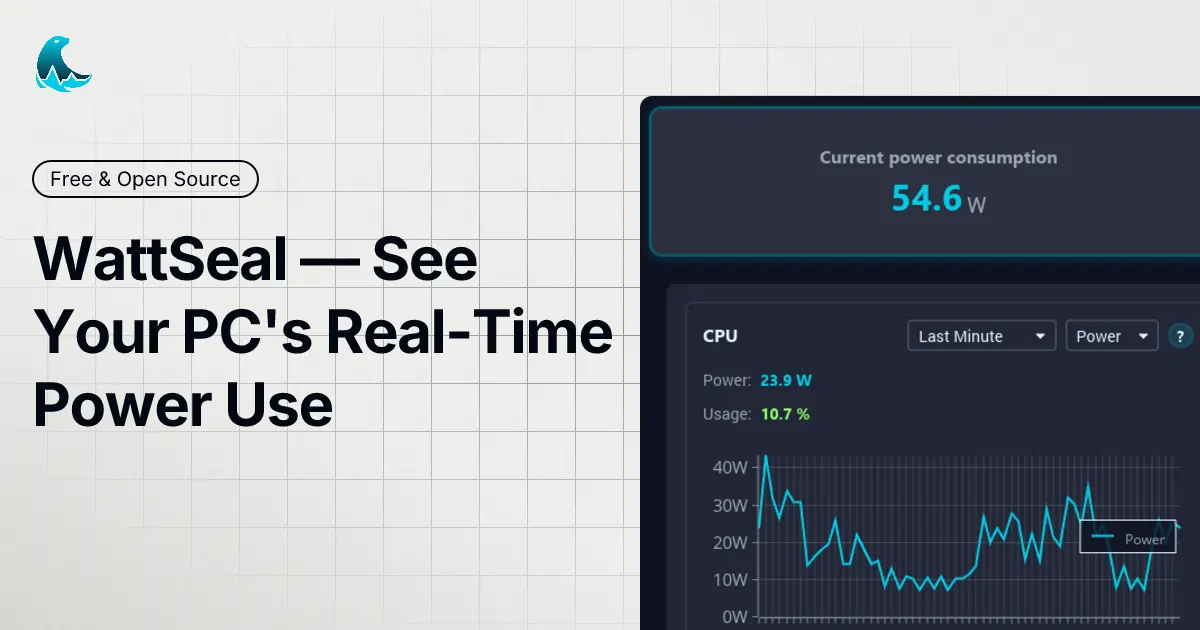
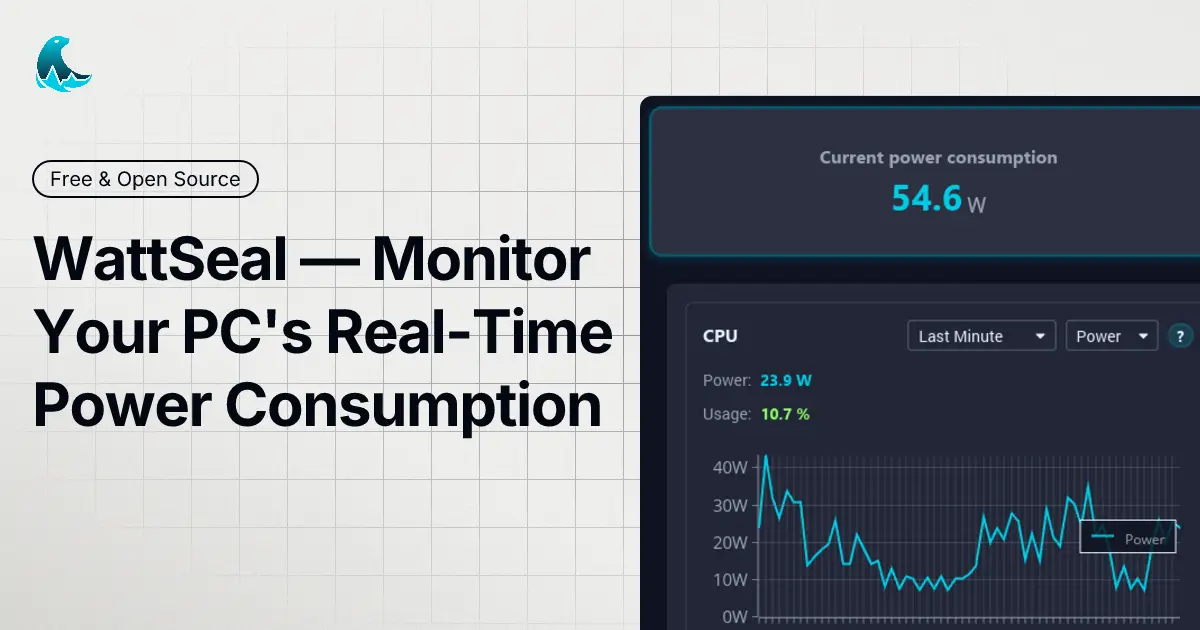
Dashboard quality and title

Changed region(s): [[0.185, 0.6032, 0.5242, 0.6937], [0.3083, 0.3619, 0.4933, 0.4524]]

diff --git a/index.html b/index.html
@@ -3,7 +3,7 @@
 <head>
     <meta charset="UTF-8">
     <meta name="viewport" content="width=device-width, initial-scale=1.0">
-    <title>WattSeal — See Your PC's Real-Time Power Use, Electricity Cost & Carbon Footprint</title>
+    <title>WattSeal — Monitor Your PC's Real-Time Power Consumption</title>
     <meta name="description" content="Find out exactly how much electricity your PC consumes — by app, by component, in real time. Track your carbon footprint, cut your energy bill. Free, open-source. AMD, Intel & NVIDIA supported.">
     <meta name="keywords" content="PC power consumption monitor, computer electricity usage tracker, PC carbon footprint software, how much electricity does my PC use, power usage per application Windows, real-time watt meter PC, reduce PC energy consumption, carbon footprint tracker, electricity cost calculator">
     <meta name="robots" content="index, follow, max-image-preview:large, max-snippet:-1, max-video-preview:-1">
@@ -14,7 +14,7 @@
     <!-- Open Graph / Facebook -->
     <meta property="og:type" content="website">
     <meta property="og:url" content="https://wattseal.com/">
-    <meta property="og:title" content="WattSeal — See Your PC's Real-Time Power Use">
+    <meta property="og:title" content="WattSeal — Monitor Your PC's Real-Time Power Consumption">
     <meta property="og:description" content="Find out exactly how much electricity your PC consumes — by app, by component, in real time. Track your carbon footprint, cut your energy bill. Free, open-source.">
     <meta property="og:image" content="https://wattseal.com/og-image.webp">
     <meta property="og:type" content="website">
@@ -25,7 +25,7 @@
     <!-- Twitter -->
     <meta property="twitter:card" content="summary_large_image">
     <meta property="twitter:url" content="https://wattseal.com/">
-    <meta property="twitter:title" content="WattSeal — See Your PC's Real-Time Power Use">
+    <meta property="twitter:title" content="WattSeal — Monitor Your PC's Real-Time Power Consumption">
     <meta property="twitter:description" content="Find out exactly how much electricity your PC consumes — by app, by component, in real time. Track your carbon footprint, cut your energy bill. Free, open-source.">
     <meta property="twitter:image" content="https://wattseal.com/og-image.webp">
 
@@ -46,9 +46,8 @@
     <noscript><link href="https://fonts.googleapis.com/css2?family=Inter:wght@400;500;600&family=Outfit:wght@400;600;700;800&display=optional" rel="stylesheet"></noscript>
 
     <!-- Preload hero image — per-breakpoint to match <picture> sources -->
-    <link rel="preload" as="image" href="dashboard-400.webp" media="(max-width: 768px)" fetchpriority="high">
-    <link rel="preload" as="image" href="dashboard-800.webp" media="(min-width: 769px) and (max-width: 1199px)" fetchpriority="high">
-    <link rel="preload" as="image" href="dashboard.png" media="(min-width: 1200px)" fetchpriority="high">
+    <link rel="preload" as="image" href="dashboard-800.webp" media="(max-width: 768px)" fetchpriority="high">
+    <link rel="preload" as="image" href="dashboard.png" media="(min-width: 769px)" fetchpriority="high">
 
     <!-- JSON-LD: SoftwareApplication -->
     <script type="application/ld+json">
@@ -397,9 +396,8 @@
 
                 <div class="hero-image-wrapper">
                     <picture>
-                        <source media="(max-width: 768px)" srcset="dashboard-400.webp" type="image/webp">
-                        <source media="(min-width: 769px) and (max-width: 1199px)" srcset="dashboard-800.webp" type="image/webp">
-                        <source media="(min-width: 1200px)" srcset="dashboard.png" type="image/png">
+                        <source media="(max-width: 768px)" srcset="dashboard-800.webp" type="image/webp">
+                        <source media="(min-width: 769px)" srcset="dashboard.png" type="image/png">
                         <img src="dashboard.png" alt="WattSeal app dashboard showing real-time power consumption breakdown by application and component" width="1200" height="750" fetchpriority="high" style="width:100%;height:auto">
                     </picture>
                 </div>
@@ -792,7 +790,7 @@
         function doShare(triggerEl) {
             var url = 'https://wattseal.com';
             if (navigator.share) {
-                navigator.share({ title: 'WattSeal', text: 'See your PC\u2019s real-time power consumption \u2014 free & open source.', url: url });
+                navigator.share({ title: 'WattSeal', text: 'Monitor your PC\u2019s real-time power consumption \u2014 free & open source.', url: url });
             } else if (navigator.clipboard) {
                 navigator.clipboard.writeText(url).then(function(){
                     var fb = document.getElementById('copy-feedback');
